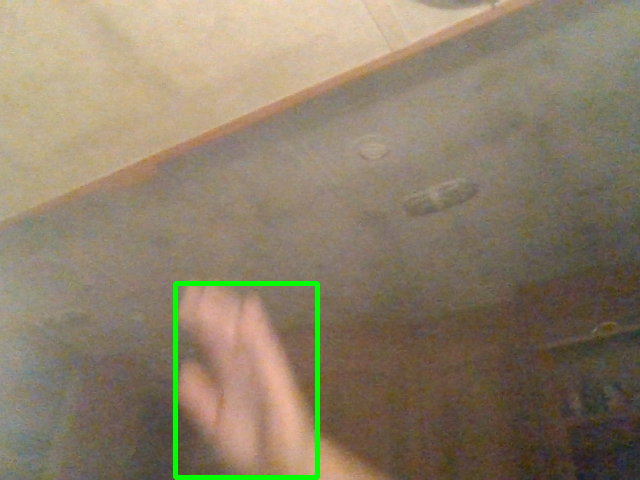
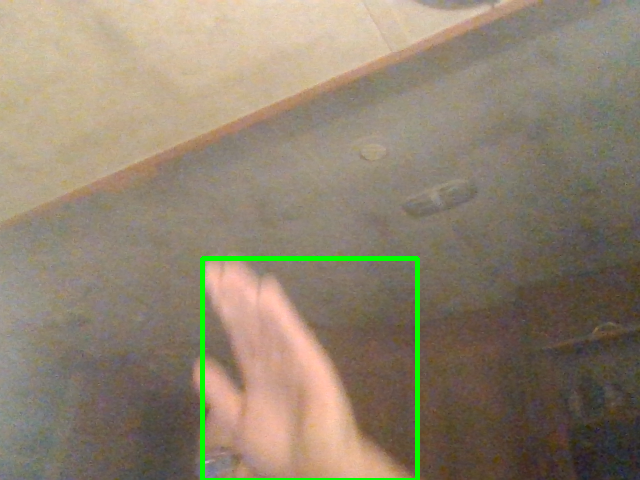
email cam image with threading

diff --git a/cam_motion/detect_motion.py b/cam_motion/detect_motion.py
@@ -15,10 +15,11 @@ cycle_count = 1
 
 
 def clean_image_folder():
+    # print("clean start")
     images = glob.glob("images/*.png")
     for image in images:
         os.remove(image)
-
+    # print("clean end")
 
 while True:
     status = 0
@@ -47,8 +48,9 @@ while True:
         if cv2.contourArea(contour) < 10000:
             continue
         x, y, width, height = cv2.boundingRect(contour)
-        green_rectangle = cv2.rectangle \
-            (frame, (x, y), (x + width, y + height), (0, 255, 0), 3)
+        green_rectangle = cv2.rectangle (frame, (x, y),
+                                         (x + width, y + height),
+                                         (0, 255, 0), 3)
 
         if green_rectangle.any():
             status = 1
@@ -62,13 +64,24 @@ while True:
     status_list.append(status)
     status_list = status_list[-2:]
 
+    # if status_list[0] == 1 and status_list[1] == 0:
+    #     send_email(image_to_email)
+    #
+    # # clean_image_folder()
+    # cv2.imshow("video", frame)
     if status_list[0] == 1 and status_list[1] == 0:
-        send_email(image_to_email)
 
-    # clean_image_folder()
+        email_thread = Thread(target=send_email,
+                              args=(image_to_email, ))#comma sets to truple
+        email_thread.daemon = True
+
+        clean_folder_thread = Thread(target=clean_image_folder)
+        clean_folder_thread.daemon = True
+
+        email_thread.start()
+
     cv2.imshow("video", frame)
-
-
+    # print(status_list)
 
 
 
@@ -77,3 +90,4 @@ while True:
     if key == ord("q"):
         break
 video.release()
+clean_folder_thread.start()

diff --git a/cam_motion/emailer.py b/cam_motion/emailer.py
@@ -2,17 +2,19 @@ import smtplib, ssl
 import os
 import imghdr
 from email.message import EmailMessage
+
+
 def send_email(image_path):
     email_message = EmailMessage()
     email_message["Subject"] = "New webcam activity"
     email_message.set_content("See the attached image")
 
-
     with open(image_path, 'rb') as file:
         image_content = file.read()
     email_message.add_attachment(image_content,
                                  maintype="image",
-                                 subtype=imghdr.what(None, image_content))
+                                 subtype=imghdr.what(None,
+                                                     image_content))
     host = "smtp.gmail.com"
     port = 465
     username = os.getenv("SENDER_EMAIL")
@@ -20,13 +22,14 @@ def send_email(image_path):
     receiver_email = os.getenv("RECEIVER_EMAIL")
     context = ssl.create_default_context()
 
-
     gmail = smtplib.SMTP("smtp.gmail.com", 587)
     gmail.ehlo()
     gmail.starttls()
     gmail.login(username, password)
-    gmail.sendmail(username, receiver_email, email_message.as_string())
+    gmail.sendmail(username, receiver_email,
+                   email_message.as_string())
     gmail.quit()
+
 
 if __name__ == "__main__":
     send_email(image_path="images/92.png")
